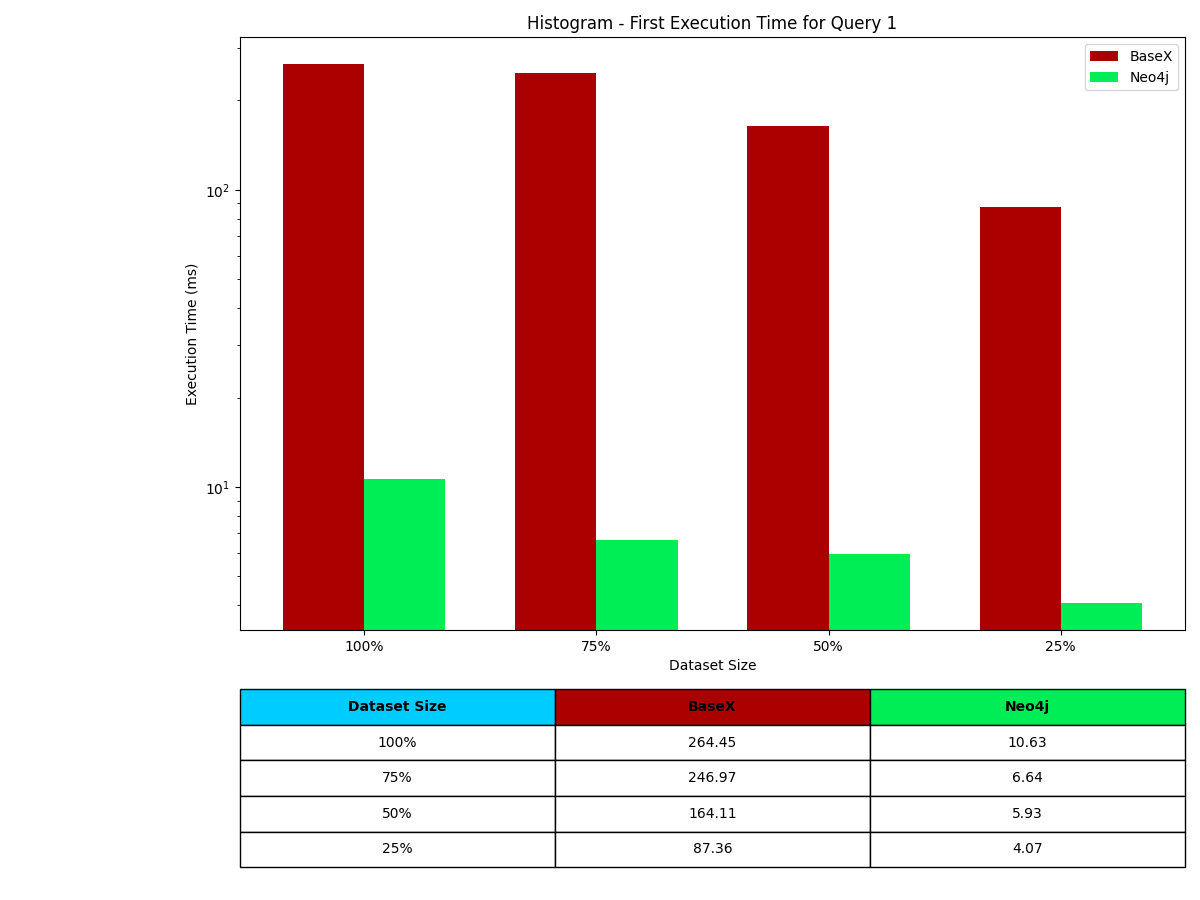
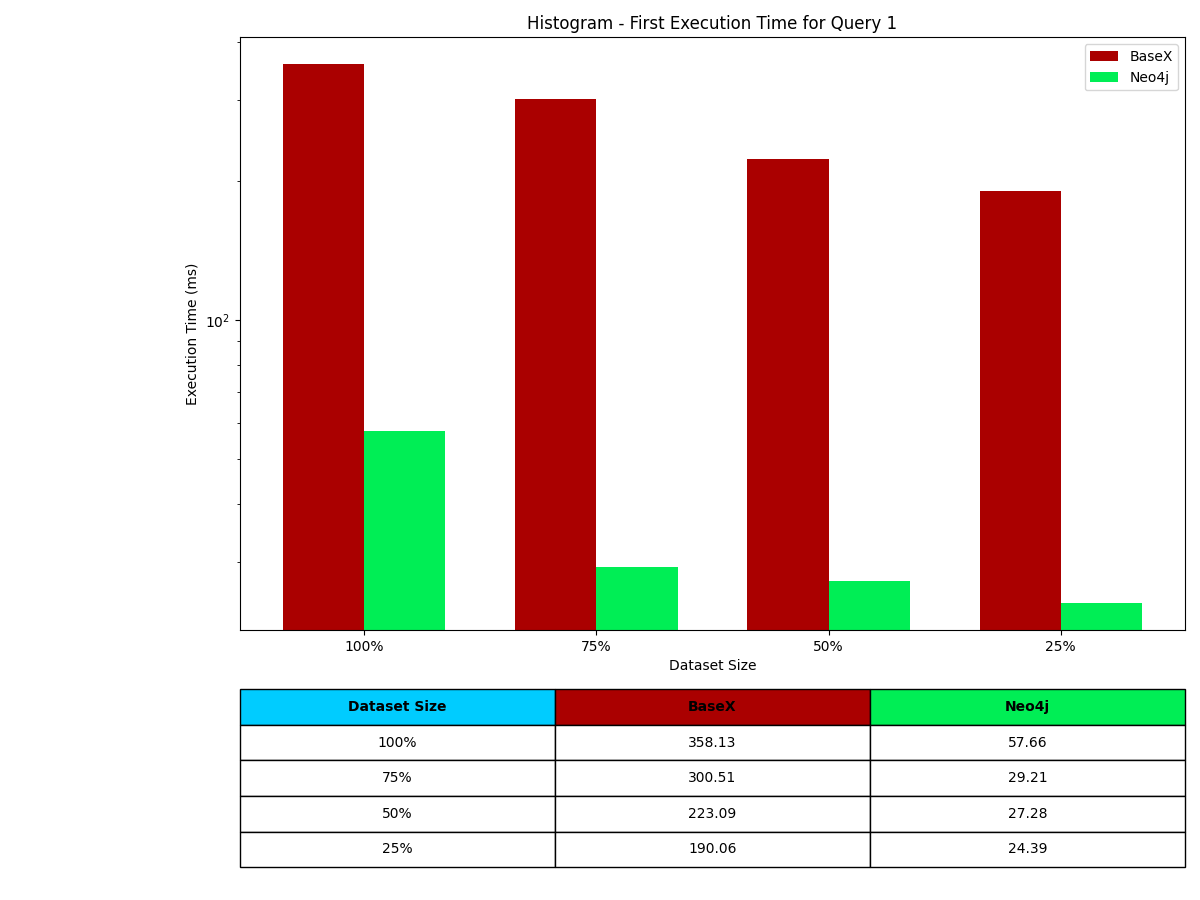
fix

diff --git a/basex/queries.py b/basex/queries.py
@@ -348,15 +348,13 @@ def query5(session, percentage):
 
 # Funzione principale per eseguire le query e misurare le performance
 def main():
-    session = BaseXClient.Session("localhost", 1984, "admin", "admin")
-
-    percentages = ["100", "75", "50", "25"]  # Percentuali del dataset
-    # Dizionario per la mappatura diretta dei dataset ai valori con il simbolo della percentuale nei file di ResponseTime
+    percentages = ["100", "75", "50", "25"]  # Percentuali del dataset Dizionario per la mappatura diretta dei dataset ai valori con il simbolo della percentuale nei file di ResponseTime
     dataset_mapping = {"100": "100%", "75": "75%", "50": "50%", "25": "25%"}
     first_execution_response_times = {}
     average_response_times = {}
 
     for percentage in percentages:
+        session = BaseXClient.Session("localhost", 1984, "admin", "admin")
         print(f"\nAnalysis by percentage: {percentage}%\n")
 
         # Query 1: Recupera il nome dell'azienda con il nome specificato
@@ -367,6 +365,9 @@ def main():
             print(f"Company name with the specified name: \n{company}\n")
         else:
             print(f"No companies found with the specified name: {company_name}\n")
+        session.close()
+
+        session = BaseXClient.Session("localhost", 1984, "admin", "admin")
 
         first_execution_time = round((end_time - start_time) * 1000, 2)
         print(f"Response time (first run - Query 1): {first_execution_time} ms")
@@ -386,6 +387,8 @@ def main():
             mean,
             margin_of_error,
         )
+        session.close()
+        session = BaseXClient.Session("localhost", 1984, "admin", "admin")
 
         # Query 2: Recupera i dettagli dell'azienda e dei suoi amministratori
         start_time = time.time()
@@ -398,6 +401,9 @@ def main():
             # print(f"Dettagli degli amministratori dell'azienda con ID {company_id}: \n{administrators}\n")
         else:
             print(f"No companies found with ID {company_id}\n")
+        session.close()
+
+        session = BaseXClient.Session("localhost", 1984, "admin", "admin")
 
         first_execution_time = round((end_time - start_time) * 1000, 2)
         print(f"Response Time (First Run - Query 2): {first_execution_time} ms")
@@ -418,6 +424,9 @@ def main():
             margin_of_error,
         )
 
+        session.close()
+        session = BaseXClient.Session("localhost", 1984, "admin", "admin")
+
         # Query 3: Recupera i dettagli dell'azienda, dei suoi amministratori e degli UBO con più del 25%
         start_time = time.time()
         company_id, company = query3(session, percentage)
@@ -428,10 +437,13 @@ def main():
             )
         else:
             print(f"No companies found with ID {company_id}\n")
+        session.close()
 
         first_execution_time = round((end_time - start_time) * 1000, 2)
         print(f"Response Time (First Run - Query 3): {first_execution_time} ms")
         first_execution_response_times[f"{percentage} - Query 3"] = first_execution_time
+
+        session = BaseXClient.Session("localhost", 1984, "admin", "admin")
 
         average_time_subsequent, mean, margin_of_error = measure_query_performance(
             session, query3, percentage
@@ -448,6 +460,9 @@ def main():
             margin_of_error,
         )
 
+        session.close()
+        session = BaseXClient.Session("localhost", 1984, "admin", "admin")
+
         # Query 4: Recupera i dettagli dell'azienda, dei suoi amministratori, UBO e la somma delle transazioni in un periodo
         start_time = time.time()
         company_id, company = query4(session, percentage)
@@ -458,6 +473,9 @@ def main():
             )
         else:
             print(f"No companies found with ID {company_id}\n")
+
+        session.close()
+        session = BaseXClient.Session("localhost", 1984, "admin", "admin")
 
         first_execution_time = round((end_time - start_time) * 1000, 2)
         print(f"Response Time (First Run - Query 4): {first_execution_time} ms")
@@ -478,6 +496,9 @@ def main():
             margin_of_error,
         )
 
+        session.close()
+        session = BaseXClient.Session("localhost", 1984, "admin", "admin")
+
         # Query 5: Recupera i dettagli dell'azienda, dei suoi amministratori, UBO e la somma delle transazioni in una valuta specifica e risultati KYC/AML recenti
         start_time = time.time()
         company_id, company = query5(session, percentage)
@@ -486,10 +507,13 @@ def main():
             print(f"Company details with ID {company_id} Query 5: \n{company}\n")
         else:
             print(f"No companies found with ID {company_id}\n")
+        session.close()
 
         first_execution_time = round((end_time - start_time) * 1000, 2)
         print(f"Response Time (First Run - Query 5): {first_execution_time} ms")
         first_execution_response_times[f"{percentage} - Query 5"] = first_execution_time
+
+        session = BaseXClient.Session("localhost", 1984, "admin", "admin")
 
         average_time_subsequent, mean, margin_of_error = measure_query_performance(
             session, query5, percentage
@@ -505,12 +529,13 @@ def main():
             mean,
             margin_of_error,
         )
+        session.close()
 
         print("-" * 100)  # Separatore tra le diverse percentuali
 
     # Salva i risultati
     with open(
-        "./res/basex_response_times_first_execution.csv",
+        "basex/res/basex_response_times_first_execution.csv",
         mode="w",
         newline="",
     ) as file:
@@ -522,7 +547,7 @@ def main():
             writer.writerow([dataset, query, first_execution_time])
 
     with open(
-        "./res/basex_response_times_average_30.csv", mode="w", newline=""
+        "basex/res/basex_response_times_average_30.csv", mode="w", newline=""
     ) as file:
         writer = csv.writer(file)
         writer.writerow(
@@ -555,9 +580,6 @@ def main():
         print(
             "Average response times were written in 'basex_response_times_first_execution.csv' and 'basex_response_times_average_30.csv'."
         )
-
-    session.close()
-
 
 if __name__ == "__main__":
     main()

diff --git a/run_benchmark.py b/run_benchmark.py
@@ -2,14 +2,14 @@ import subprocess
 
 def run_benchmark():
     try:
-        print("Running basex/queries.py script")
-        subprocess.run(["python", "basex/queries.py"], check=True)
+        # print("Running basex/queries.py script")
+        # subprocess.run(["python3", "basex/queries.py"], check=True)
 
-        print("Running neo4j/queries.py script")
-        subprocess.run(["python", "neo4j/queries.py"], check=True)
+        #print("Running neo4j/queries.py script")
+        #subprocess.run(["python3", "neo4j/queries.py"], check=True)
 
         print("Running generating_histograms.py script")
-        subprocess.run(["python", "generating_histograms.py"], check=True)
+        subprocess.run(["python3", "generate_histograms.py"], check=True)
 
     except subprocess.CalledProcessError as e:
         print(f"Error occurred while executing a script: {e}")
